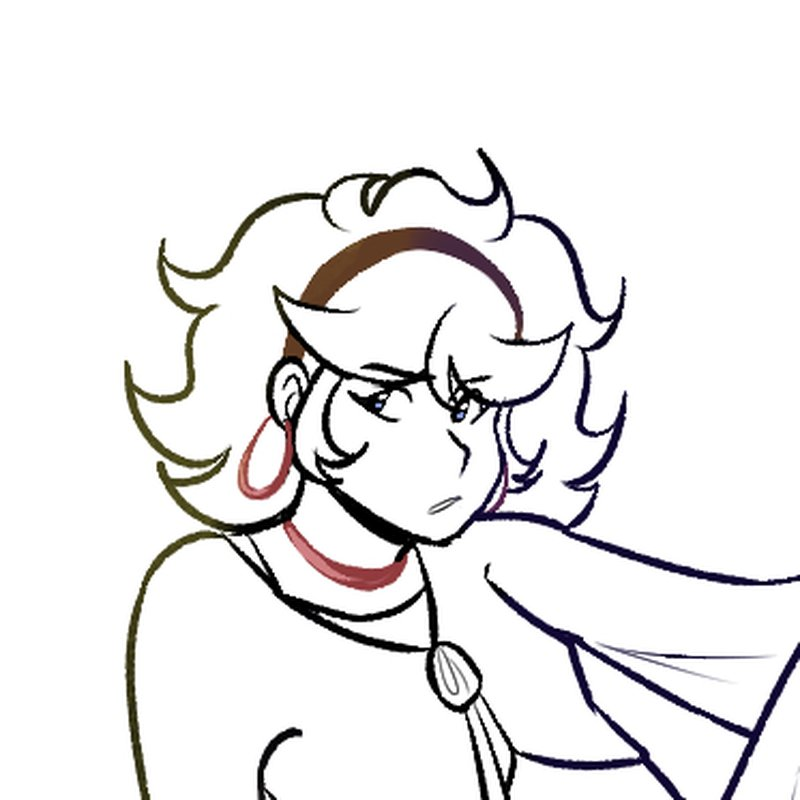
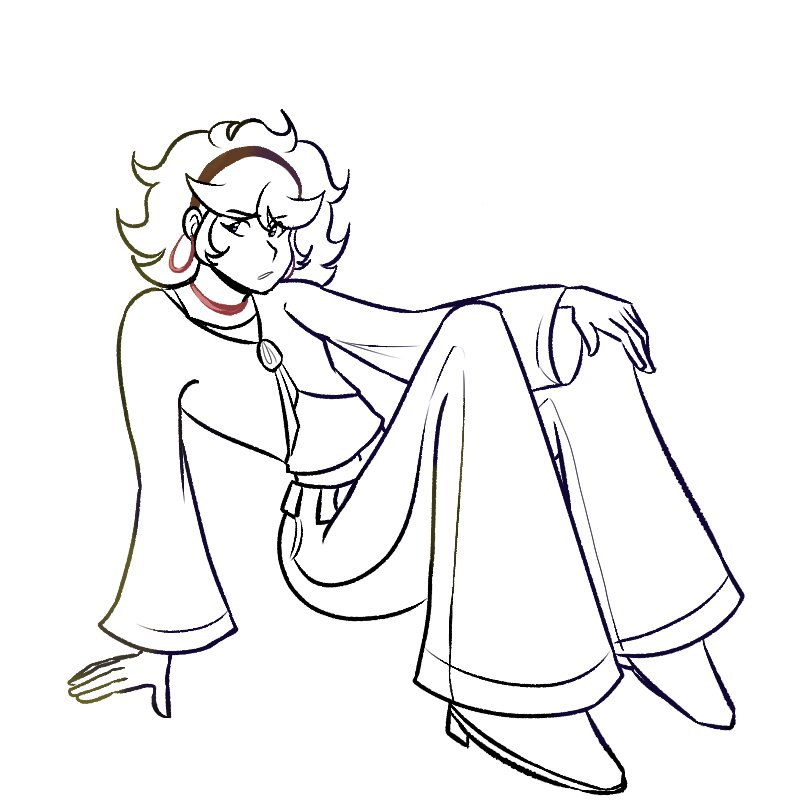
Update portfolio

Changed region(s): [[0.0625, 0.125, 1.0, 1.0], [0.3125, 0.9062, 0.375, 1.0], [0.8125, 0.5312, 0.8438, 0.5938]]

diff --git a/index.html b/index.html
@@ -110,14 +110,14 @@
 
       <a class="card" href="latest/The Guardian Press Works.html">
         <figure class="thumb">
-          <img src="./art/The%20Guardian%20Press%20Works/Gp%20Page%201.jpg" alt="The Guardian Press Works"/>
+          <img src="./art/The%20Guardian%20Press%20Works/thumbnails/TPG-12-Inks-P16.jpg" alt="The Guardian Press Works"/>
         </figure>
         <div class="label">The Guardian Press Works</div>
       </a>
 
       <a class="card" href="latest/Finished Pieces.html">
         <figure class="thumb">
-          <img src="./art/Finished%20Pieces/thumbnails/WINGSPAN%20COVER%202.0_3.jpg" alt="Finished Pieces"/>
+          <img src="./art/Finished%20Pieces/thumbnails/Art%20103%20Historical%20Images_2.jpg" alt="Finished Pieces"/>
         </figure>
         <div class="label">Finished Pieces</div>
       </a>
@@ -138,21 +138,21 @@
 
       <a class="card" href="latest/Storyboard Panels.html">
         <figure class="thumb">
-          <img src="./art/Storyboard%20Panels/Wingspam%201-3.jpg" alt="Storyboard Panels"/>
+          <img src="./art/Storyboard%20Panels/thumbnails/Wingspam%201-3.jpg" alt="Storyboard Panels"/>
         </figure>
         <div class="label">Storyboard Panels</div>
       </a>
 
       <a class="card" href="latest/Volition Wingspan Works.html">
         <figure class="thumb">
-          <img src="./art/Volition%20Wingspan%20Works/Wingspan%20Inks%201.jpg" alt="Volition Wingspan Works"/>
+          <img src="./art/Volition%20Wingspan%20Works/thumbnails/Wingspan%20Inks%201.jpg" alt="Volition Wingspan Works"/>
         </figure>
         <div class="label">Volition Wingspan Works</div>
       </a>
 
       <a class="card" href="latest/sketches.html">
         <figure class="thumb">
-          <img src="./art/sketches/Comp%202.jpg" alt="sketches"/>
+          <img src="./art/sketches/thumbnails/Comp%202.jpg" alt="sketches"/>
         </figure>
         <div class="label">sketches</div>
       </a>

diff --git a/latest/The Guardian Press Works.html b/latest/The Guardian Press Works.html
@@ -80,6 +80,10 @@
   <main class="wrap">
     <div class="grid" id="gallery">
 
+      <button class="cell tile" data-full="/art/The%20Guardian%20Press%20Works/TPG-12-Inks-P16.jpg">
+        <img alt="TPG-12-Inks-P16" src="/art/The%20Guardian%20Press%20Works/thumbnails/TPG-12-Inks-P16.jpg">
+      </button>
+
       <button class="cell tile" data-full="/art/The%20Guardian%20Press%20Works/Gp%20Page%201.jpg">
         <img alt="Gp Page 1" src="/art/The%20Guardian%20Press%20Works/Gp%20Page%201.jpg">
       </button>
@@ -102,10 +106,6 @@
 
       <button class="cell tile" data-full="/art/The%20Guardian%20Press%20Works/TPG-I3-INKS%20%2B%20COLOR.jpg">
         <img alt="TPG-I3-INKS + COLOR" src="/art/The%20Guardian%20Press%20Works/TPG-I3-INKS%20%2B%20COLOR.jpg">
-      </button>
-
-      <button class="cell tile" data-full="/art/The%20Guardian%20Press%20Works/TPG-12-Inks-P16.jpg">
-        <img alt="TPG-12-Inks-P16" src="/art/The%20Guardian%20Press%20Works/TPG-12-Inks-P16.jpg">
       </button>
 
       <button class="cell tile" data-full="/art/The%20Guardian%20Press%20Works/4-31.jpg">

diff --git a/latest/Volition Wingspan Works.html b/latest/Volition Wingspan Works.html
@@ -81,7 +81,7 @@
     <div class="grid" id="gallery">
 
       <button class="cell tile" data-full="/art/Volition%20Wingspan%20Works/Wingspan%20Inks%201.jpg">
-        <img alt="Wingspan Inks 1" src="/art/Volition%20Wingspan%20Works/Wingspan%20Inks%201.jpg">
+        <img alt="Wingspan Inks 1" src="/art/Volition%20Wingspan%20Works/thumbnails/Wingspan%20Inks%201.jpg">
       </button>
 
       <button class="cell tile" data-full="/art/Volition%20Wingspan%20Works/Wingspan%20Inks%202.jpg">

diff --git a/latest/Storyboard Panels.html b/latest/Storyboard Panels.html
@@ -81,7 +81,7 @@
     <div class="grid" id="gallery">
 
       <button class="cell tile" data-full="/art/Storyboard%20Panels/Wingspam%201-3.jpg">
-        <img alt="Wingspam 1-3" src="/art/Storyboard%20Panels/Wingspam%201-3.jpg">
+        <img alt="Wingspam 1-3" src="/art/Storyboard%20Panels/thumbnails/Wingspam%201-3.jpg">
       </button>
 
       <button class="cell tile" data-full="/art/Storyboard%20Panels/Wingspan%201-1.jpg">

diff --git a/latest/sketches.html b/latest/sketches.html
@@ -81,7 +81,7 @@
     <div class="grid" id="gallery">
 
       <button class="cell tile" data-full="/art/sketches/Comp%202.jpg">
-        <img alt="Comp 2" src="/art/sketches/Comp%202.jpg">
+        <img alt="Comp 2" src="/art/sketches/thumbnails/Comp%202.jpg">
       </button>
 
       <button class="cell tile" data-full="/art/sketches/Sketchbook%203.jpg">

diff --git a/latest/Line Art.html b/latest/Line Art.html
@@ -89,7 +89,7 @@
       </button>
 
       <button class="cell tile" data-full="/art/Line%20Art/Witch%20Oc%20Lineart_3.jpg">
-        <img alt="Witch Oc Lineart_3" src="/art/Line%20Art/Witch%20Oc%20Lineart_3.jpg">
+        <img alt="Witch Oc Lineart_3" src="/art/Line%20Art/thumbnails/Witch%20Oc%20Lineart_3.jpg">
       </button>
 
     </div>

diff --git a/portfolio/http_gen.py b/portfolio/http_gen.py
@@ -168,8 +168,7 @@ class IndexPage:
     <section class="grid" aria-label="Portfolio categories">
 """
         for c in categories:
-            # Use the first art piece's thumbnail if available
-            category_thumb = c.art_pieces[0].get_thumbnail_p() if c.art_pieces else c.thumbnail_p
+            category_thumb = c.thumbnail_p
             thumb_src = dot_relative(cwd, category_thumb)
             if thumb_src is None:
                 continue

diff --git a/gui/file_ops.py b/gui/file_ops.py
@@ -368,6 +368,9 @@ def delete_image(category_name: str, filename: str) -> None:
         if cat["name"] == category_name:
             if filename in cat["images"]:
                 cat["images"].remove(filename)
+            # Clear preview if the deleted image was the preview
+            if cat.get("preview") == filename:
+                cat["preview"] = None
             break
     write_manifest(manifest)
 
